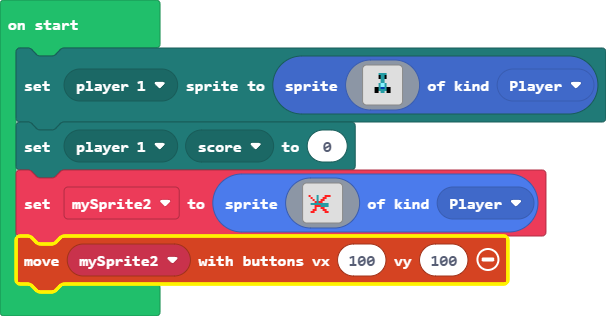
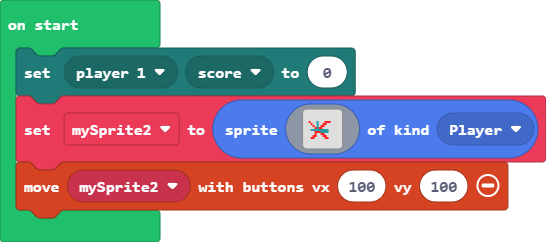
Update main.blocks, main.ts, tilemap.g.jres, tilemap.g.ts

diff --git a/tilemap.g.ts b/tilemap.g.ts
@@ -68,6 +68,25 @@ namespace myTiles {
 . . . . . . . . . . . . . . . . 
 . . . . . . . . . . . . . . . . 
 `, [myTiles.transparency16], TileScale.Sixteen);
+            case "level4":
+            case "level4":return tiles.createTilemap(hex`1000100000000000000000000000000000000000000000000000000000000000000000000000000000000000000000000000000000000000000000000000000000000000000000000000000000000000000000000000000000000000000000000000000000000000000000000000000000000000000000000000000000000000000000000000000000000000000000000000000000000000000000000000000000000000000000000000000000000000000000000000000000000000000000000000000000000000000000000000000000000000000000000000000000000000000000000000000000000000000000000000000000000000000000000000000000000000`, img`
+. . . . . . . . . . . . . . . . 
+. . . . . . . . . . . . . . . . 
+. . . . . . . . . . . . . . . . 
+. . . . . . . . . . . . . . . . 
+. . . . . . . . . . . . . . . . 
+. . . . . . . . . . . . . . . . 
+. . . . . . . . . . . . . . . . 
+. . . . . . . . . . . . . . . . 
+. . . . . . . . . . . . . . . . 
+. . . . . . . . . . . . . . . . 
+. . . . . . . . . . . . . . . . 
+. . . . . . . . . . . . . . . . 
+. . . . . . . . . . . . . . . . 
+. . . . . . . . . . . . . . . . 
+. . . . . . . . . . . . . . . . 
+. . . . . . . . . . . . . . . . 
+`, [myTiles.transparency16], TileScale.Sixteen);
         }
         return null;
     })

diff --git a/main.ts b/main.ts
@@ -1,4 +1,3 @@
-mp.setPlayerSprite(mp.playerSelector(mp.PlayerNumber.One), sprites.create(assets.image`Player1`, SpriteKind.Player))
 mp.setPlayerState(mp.playerSelector(mp.PlayerNumber.One), MultiplayerState.score, 0)
 let mySprite2 = sprites.create(assets.image`testsprite`, SpriteKind.Player)
 controller.moveSprite(mySprite2, 100, 100)
